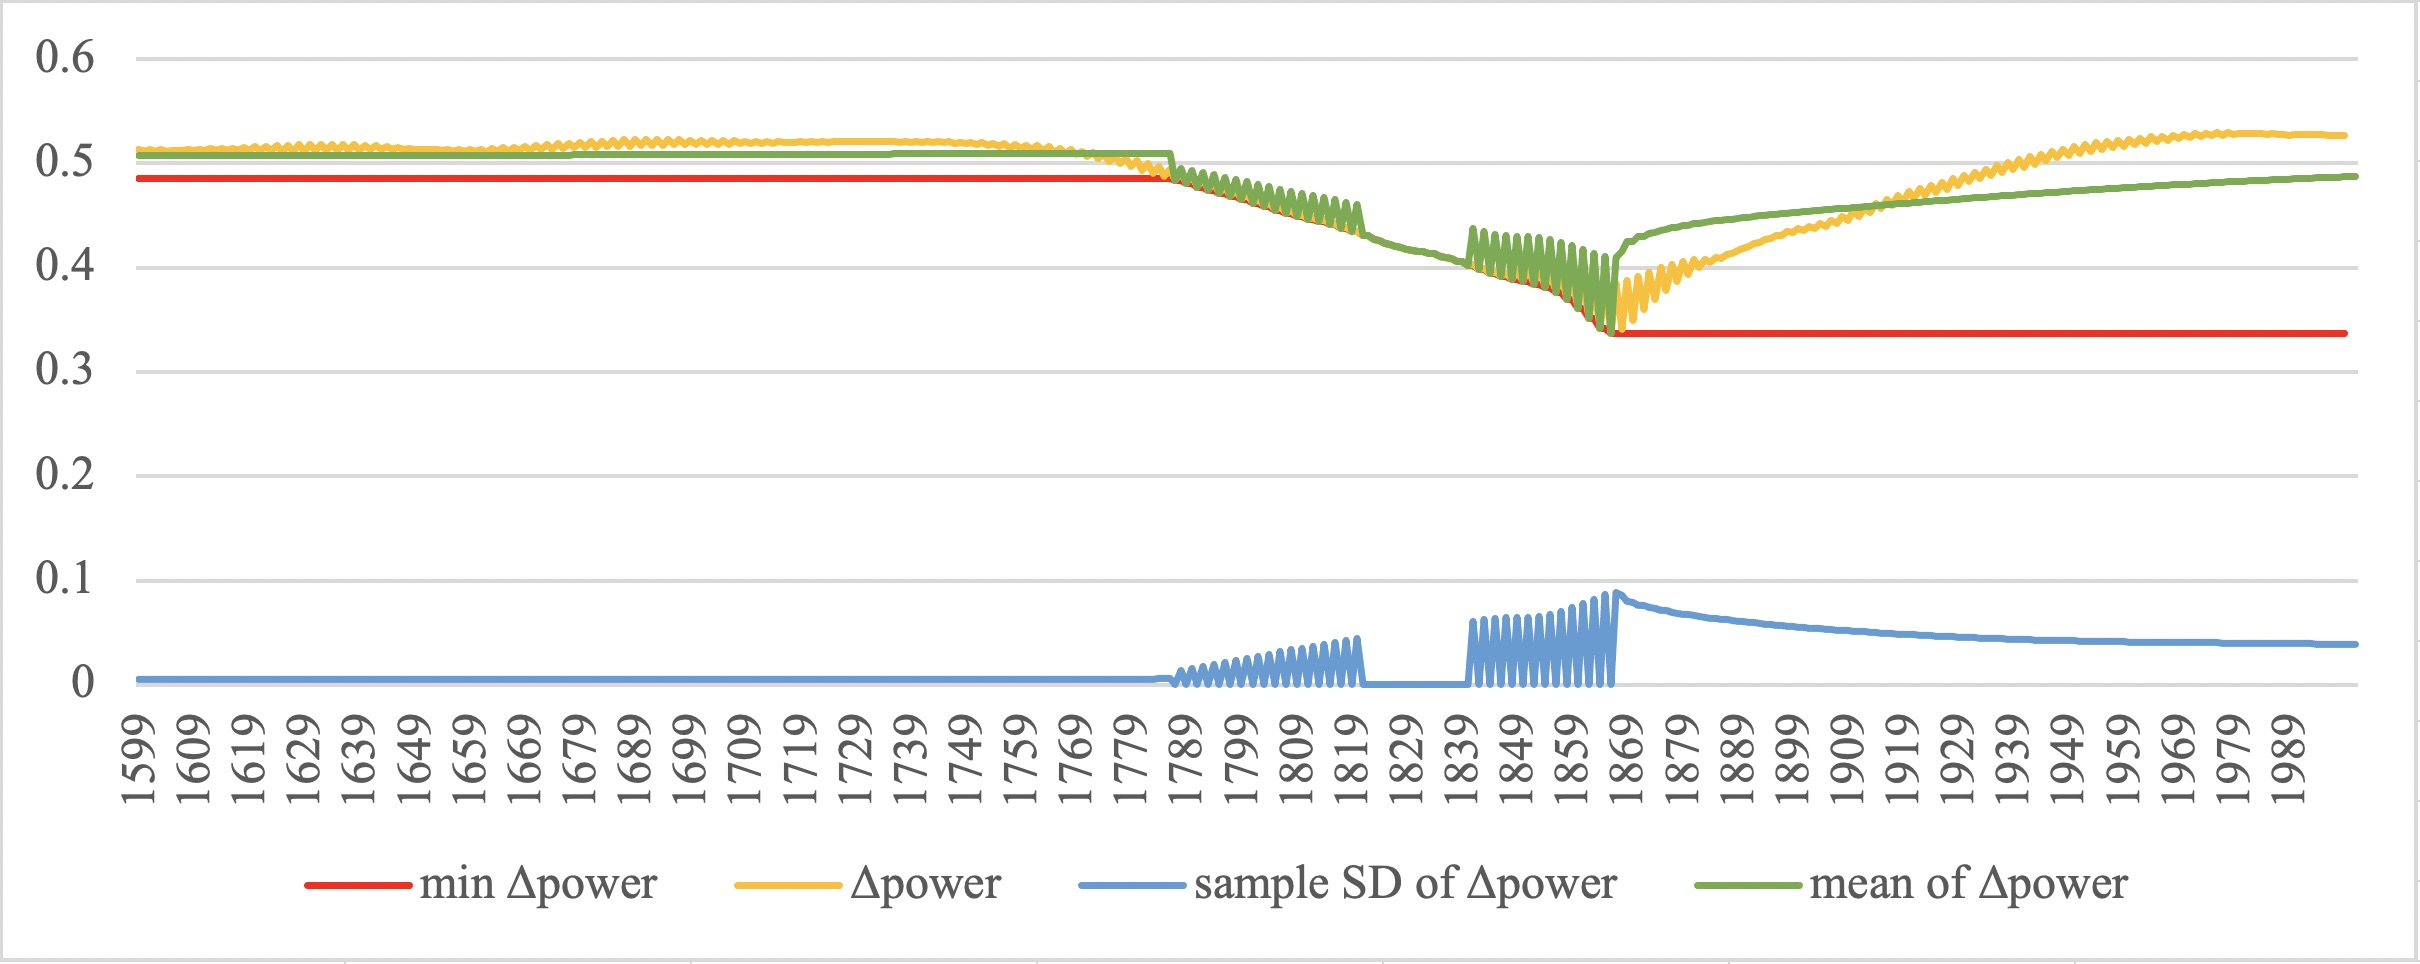
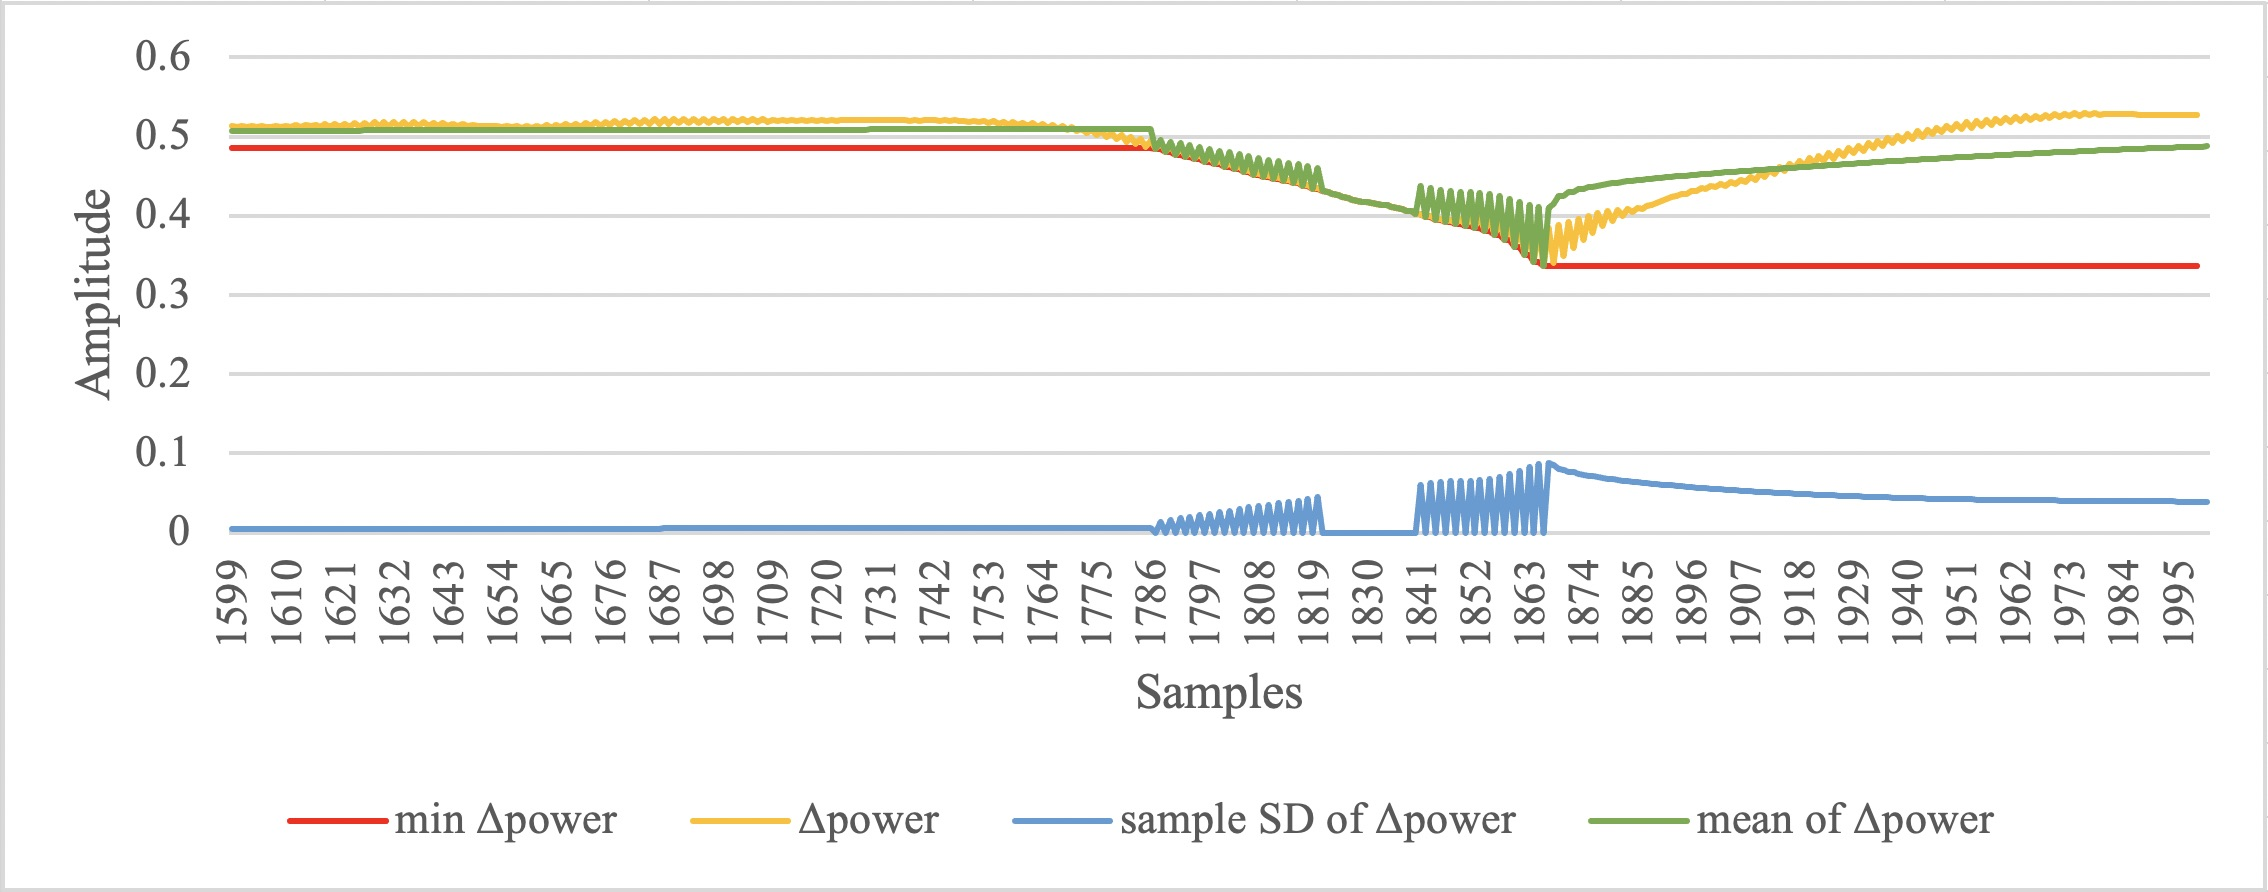
feat: add exp time fig && fix prev xlsx fig

diff --git a/thesis/contents/chapter04.tex b/thesis/contents/chapter04.tex
@@ -322,7 +322,7 @@ $X$ 軸為總能量差的幅值大小，正比於能量的平方根，$Y$ 軸為
 
 \begin{figure}[H]
     \centering
-    \includegraphics[width=0.9\textwidth]{exp-shift-3}
+    \includegraphics[width=0.85\textwidth]{exp-shift-3}
     \caption{聲音樣本離散時間推估演算法執行時數值圖}\label{fig:exp-shift-3}
 \end{figure}
 
@@ -346,12 +346,12 @@ $X$ 軸為總能量差的幅值大小，正比於能量的平方根，$Y$ 軸為
 
 \begin{figure}[H]
     \centering
-    \includegraphics[width=0.9\textwidth]{exp-shift-4}
+    \includegraphics[width=0.85\textwidth]{exp-shift-4}
     \caption{最小累積能量差與七倍標準差變化圖}\label{fig:exp-shift-4}
 \end{figure}
 
 
-\subsection{解封會談聲音記錄分析性能分析}
+\subsection{還原會談聲音記錄性能分析}
 
     伺服器獲得授權後，執行聲音樣本離散時間推估演算法與主動式噪音消除來還原產生有效的會談聲音紀錄，
 其錄音長度與執行時間的時間複雜度性能分析。
@@ -366,6 +366,12 @@ $X$ 軸為總能量差的幅值大小，正比於能量的平方根，$Y$ 軸為
     實驗步驟
 
     實驗結果
+
+\begin{figure}[H]
+    \centering
+    \includegraphics[width=0.85\textwidth]{exp-time}
+    \caption{還原會談聲音記錄執行時間圖}\label{fig:exp-time}
+\end{figure}
 
 
 \section{實驗結果與討論}
